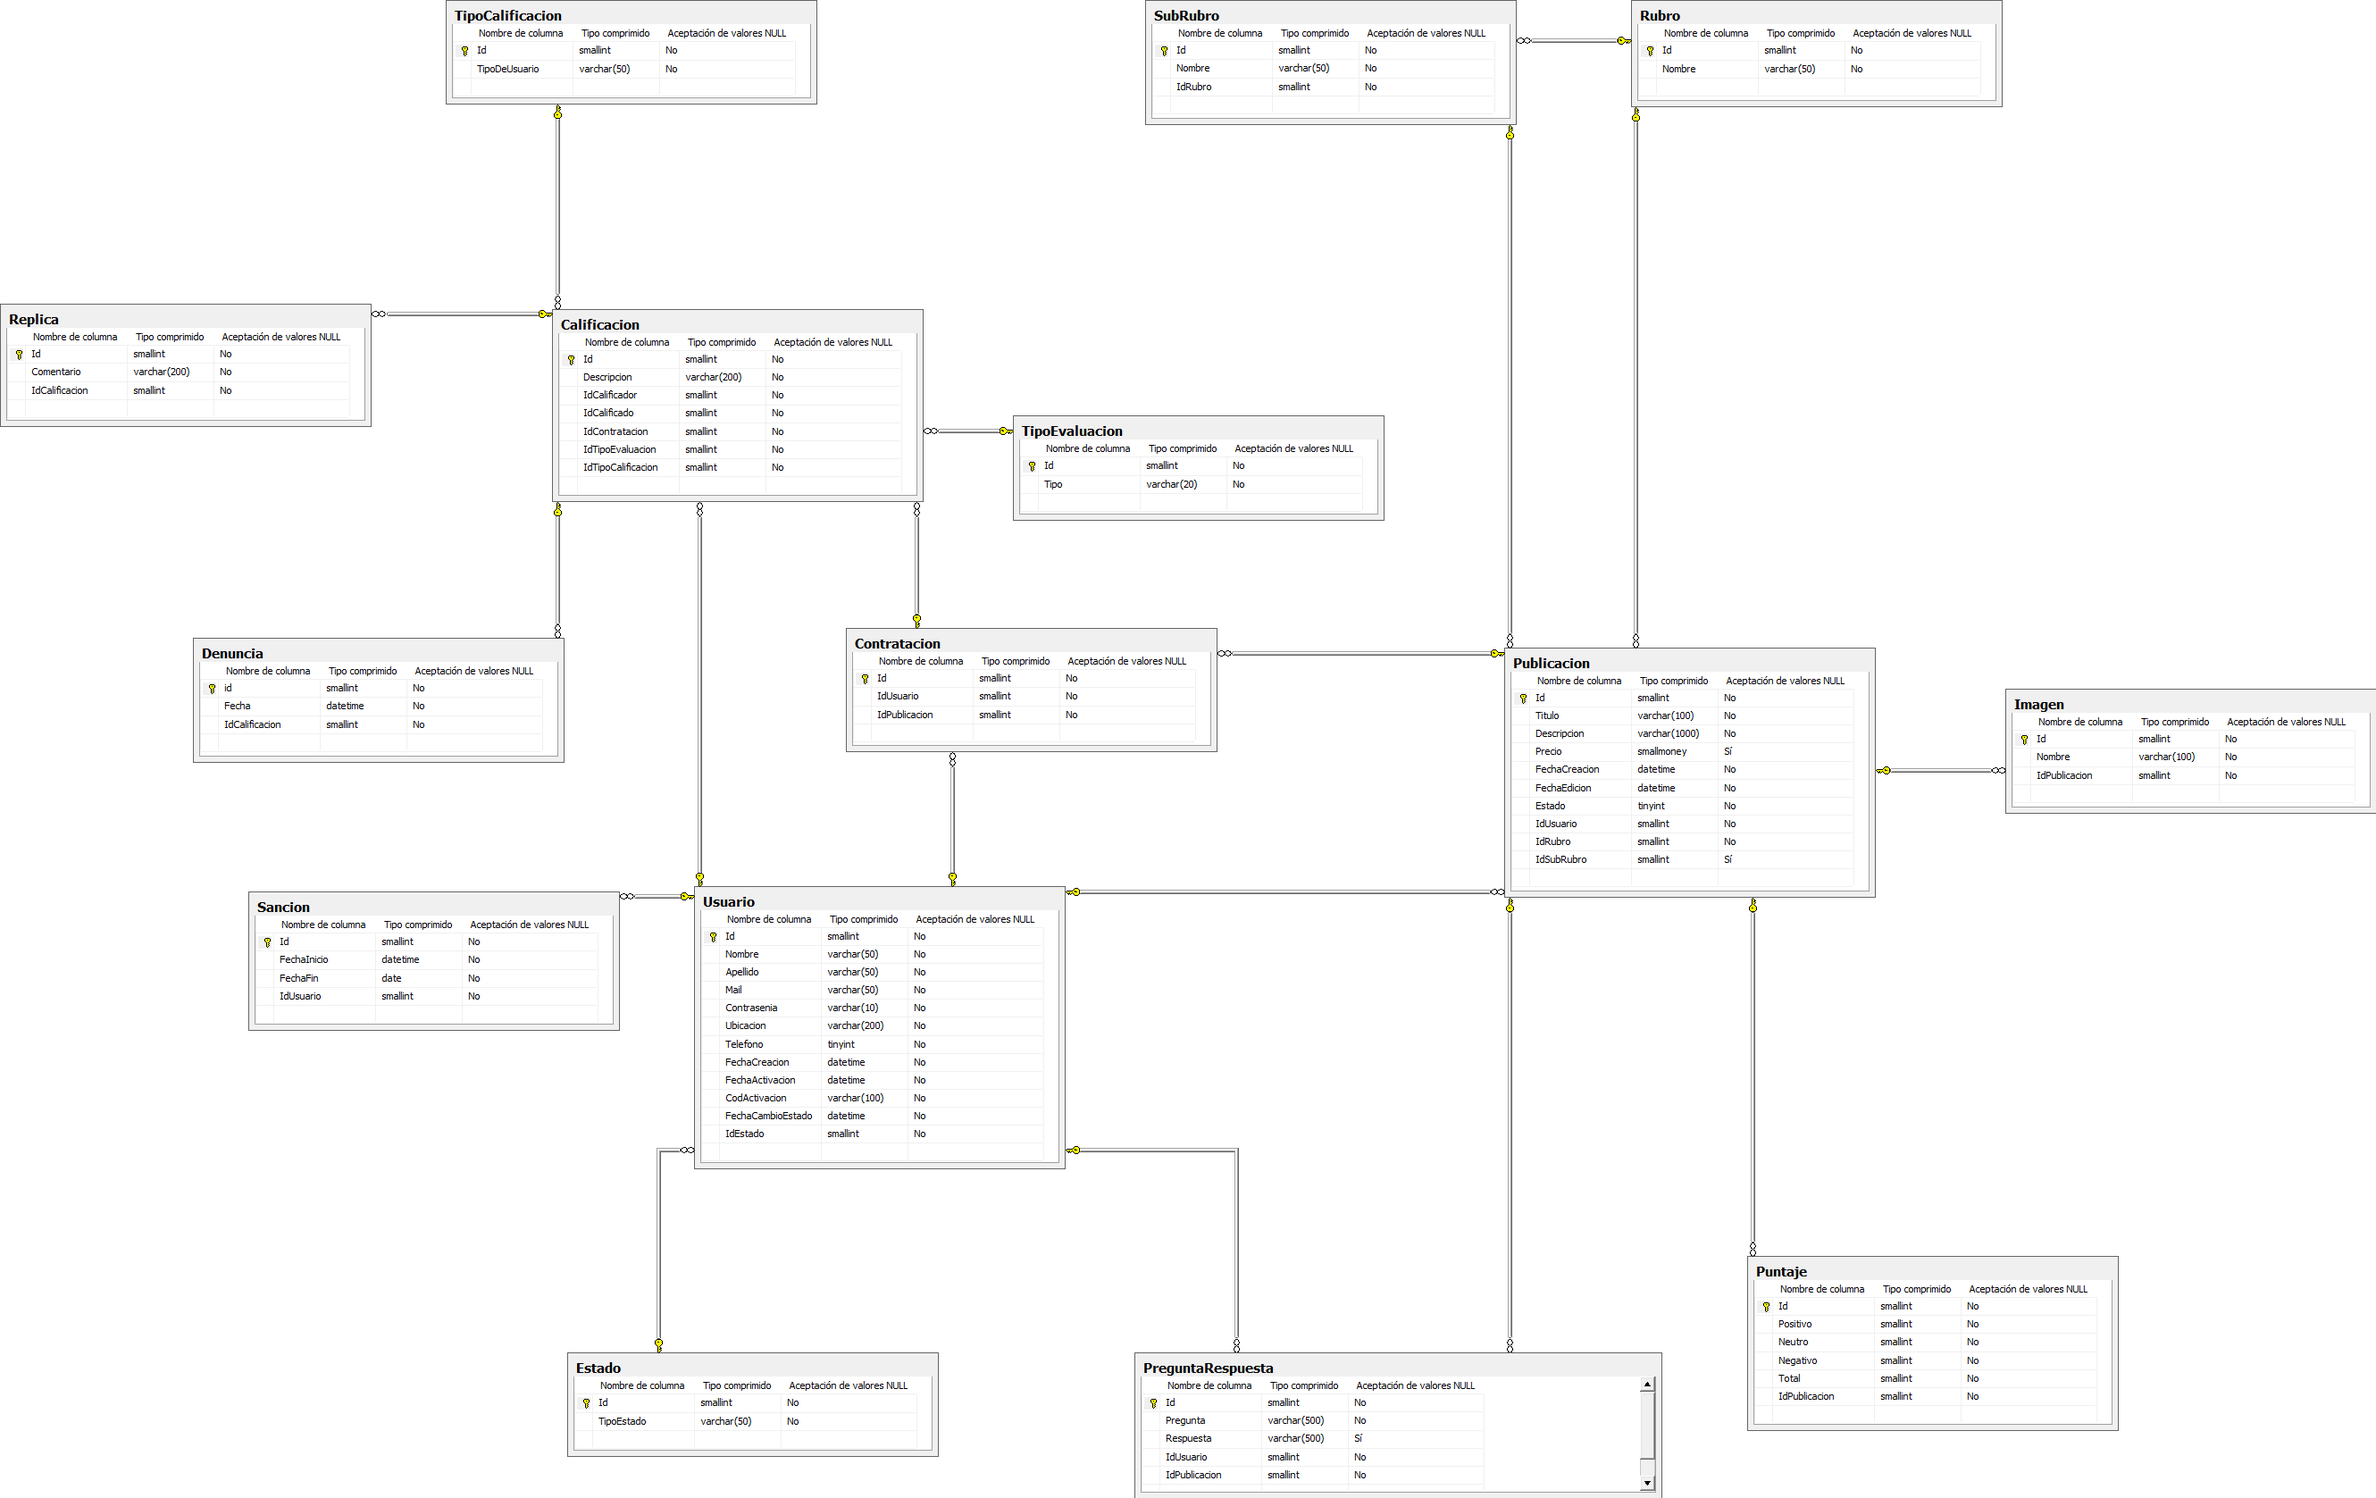
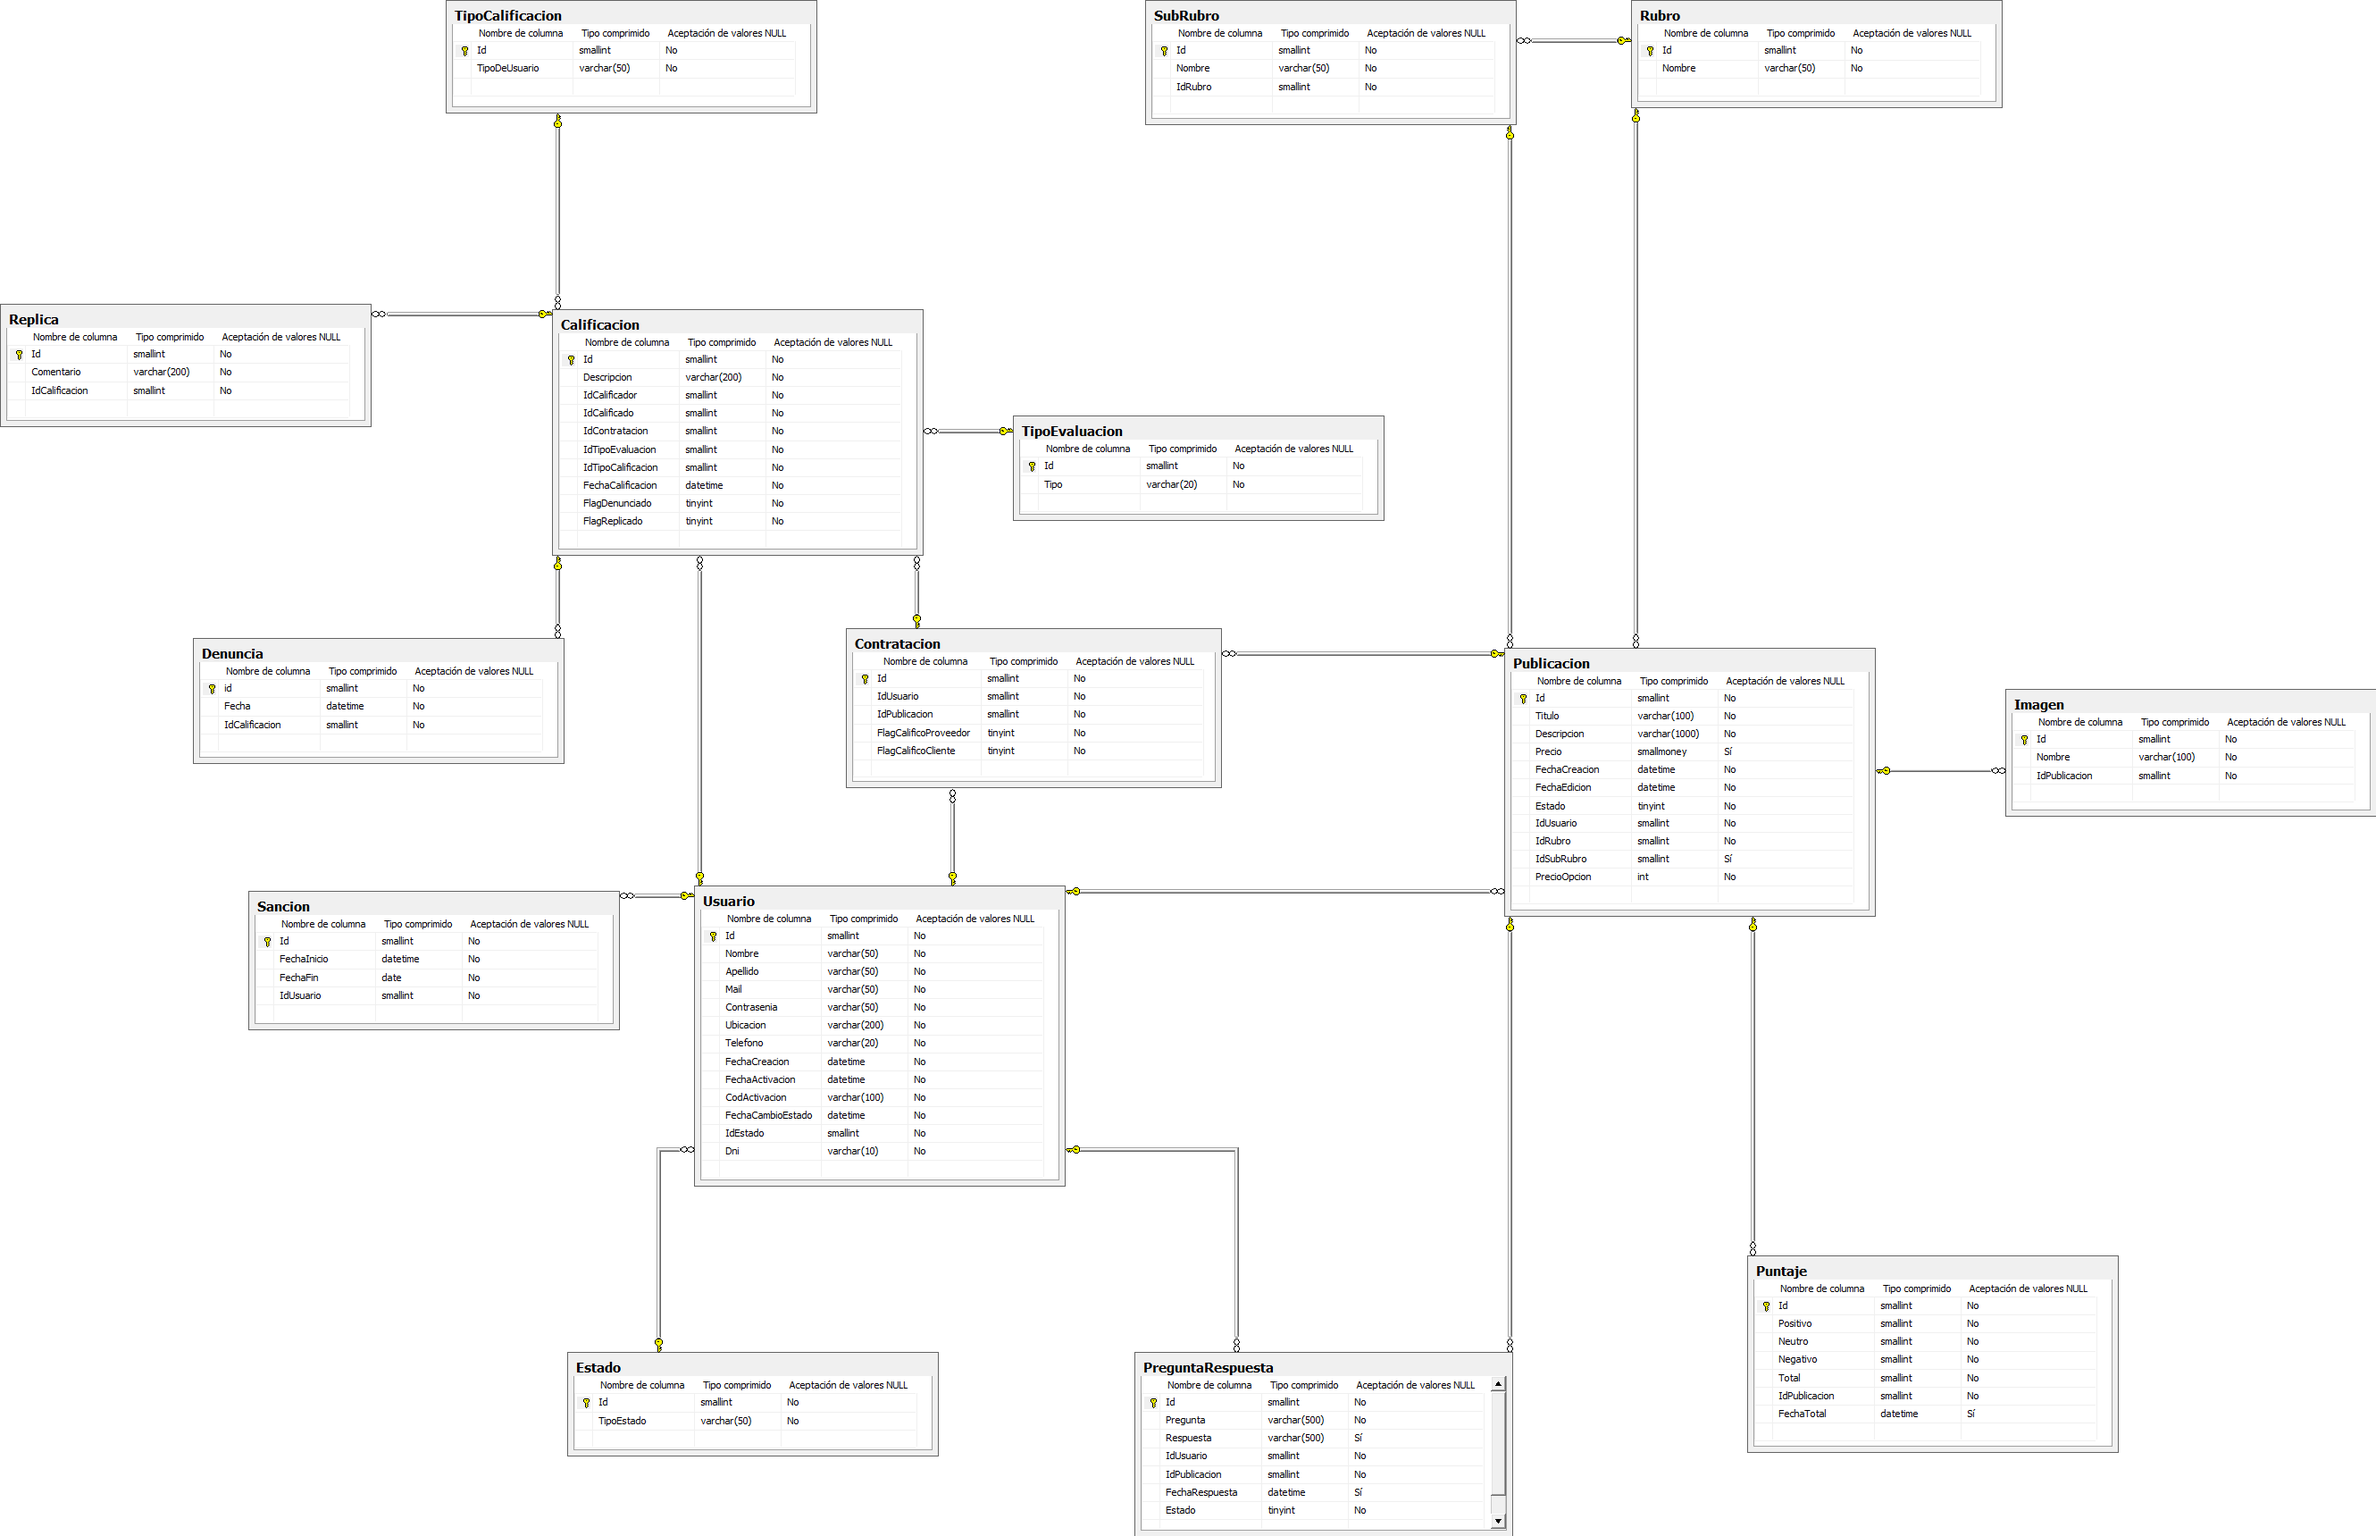
Agrega la insercion de puntaje

diff --git a/Providere/Providere/Repositorios/CalificacionRepositorio.cs b/Providere/Providere/Repositorios/CalificacionRepositorio.cs
@@ -41,14 +41,67 @@ namespace Providere.Repositorios
             {
                 Contratacion cambioEstado = context.Contratacion.Where(e => e.Id == contratacion.Id).FirstOrDefault();
                 cambioEstado.FlagCalificoCliente = 1; //en este caso se marca que el cliente califico al prestador
+
+                Puntaje puntaje = context.Puntaje.Where(e => e.IdPublicacion == contratacion.IdPublicacion).FirstOrDefault();
+                // Cuando califica el cliente hace el cambio en el puntaje de la publicacion
+
+                if (puntaje == null)
+                {
+                    Puntaje puntajeNuevo = new Puntaje();
+
+                    puntajeNuevo.IdPublicacion = contratacion.IdPublicacion;
+
+                    if (tipoEvaluacion.Id == 1)
+                    {
+                        puntajeNuevo.Positivo = 1;
+                    }
+                    else
+                    {
+                        if (tipoEvaluacion.Id == 2)
+                        {
+                            puntajeNuevo.Neutro = 1;
+                        }
+                        else
+                        {
+                            puntajeNuevo.Negativo = 1;
+                        }
+                    }
+
+                    var total = puntajeNuevo.Positivo + puntajeNuevo.Neutro + puntajeNuevo.Negativo;
+
+                    puntajeNuevo.Total = Convert.ToInt16(total);
+
+                    context.Puntaje.AddObject(puntajeNuevo);
+
+                }
+                else
+                {
+                    if (tipoEvaluacion.Id == 1)
+                    {
+                        puntaje.Positivo = Convert.ToInt16(puntaje.Positivo + 1);
+                        puntaje.Total = Convert.ToInt16(puntaje.Total + 1);
+                    }
+                    else
+                    {
+                        if (tipoEvaluacion.Id == 2)
+                        {
+                            puntaje.Neutro = Convert.ToInt16(puntaje.Neutro + 1);
+                            // Puntaje Total no tiene cambios.
+                        }
+                        else
+                        {
+                            puntaje.Negativo = Convert.ToInt16(puntaje.Negativo + 1);
+                            puntaje.Total = Convert.ToInt16(puntaje.Total - 1);
+                        }
+                    } 
+                }
+
             }
             else
             {
                 Contratacion cambioEstado = context.Contratacion.Where(e => e.Id == contratacion.Id).FirstOrDefault();
                 cambioEstado.FlagCalificoProveedor = 1; //en este caso se marca que el prestador califico al cliente
             }
-
-            
 
             context.SaveChanges();
         }
